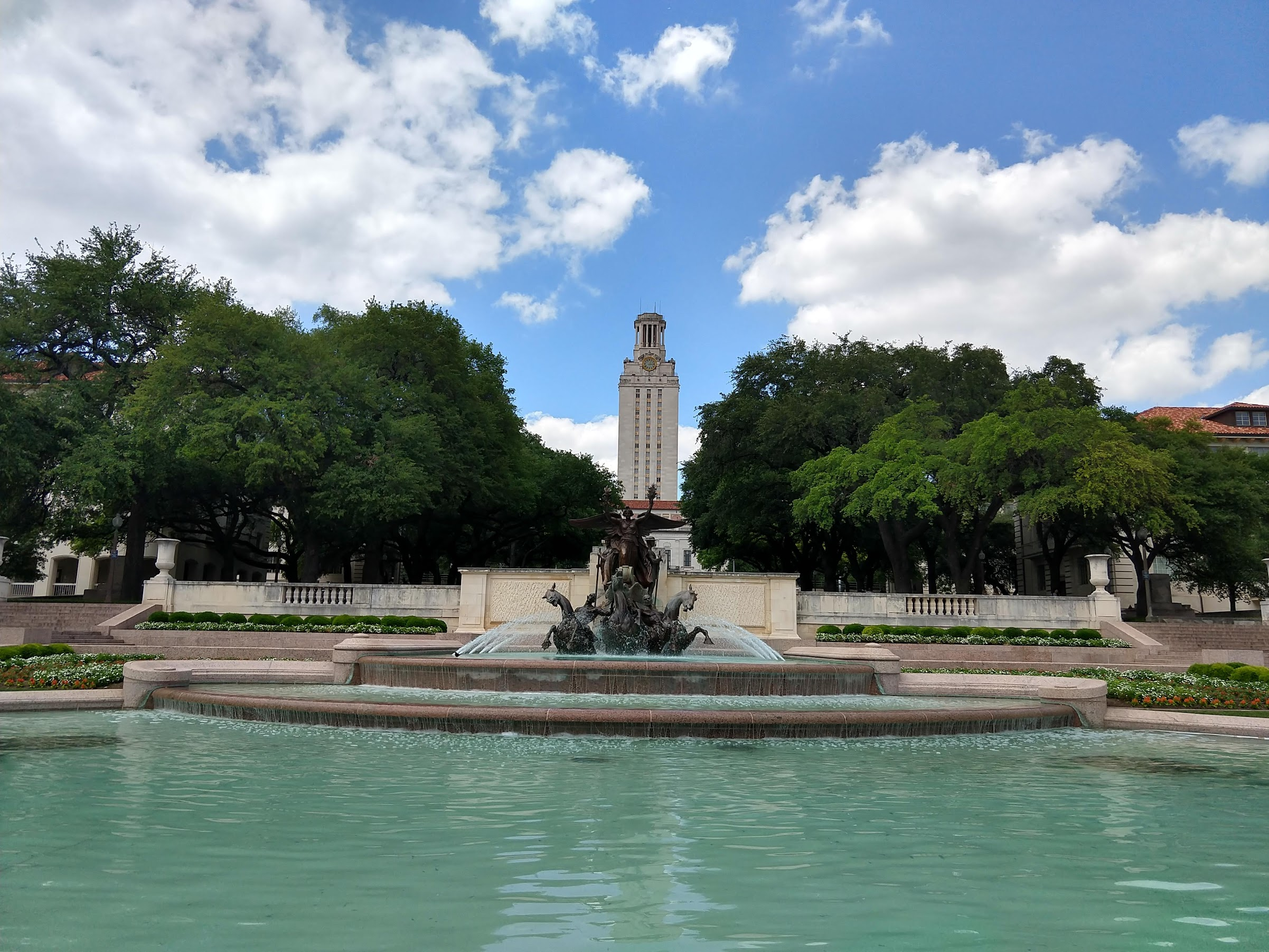
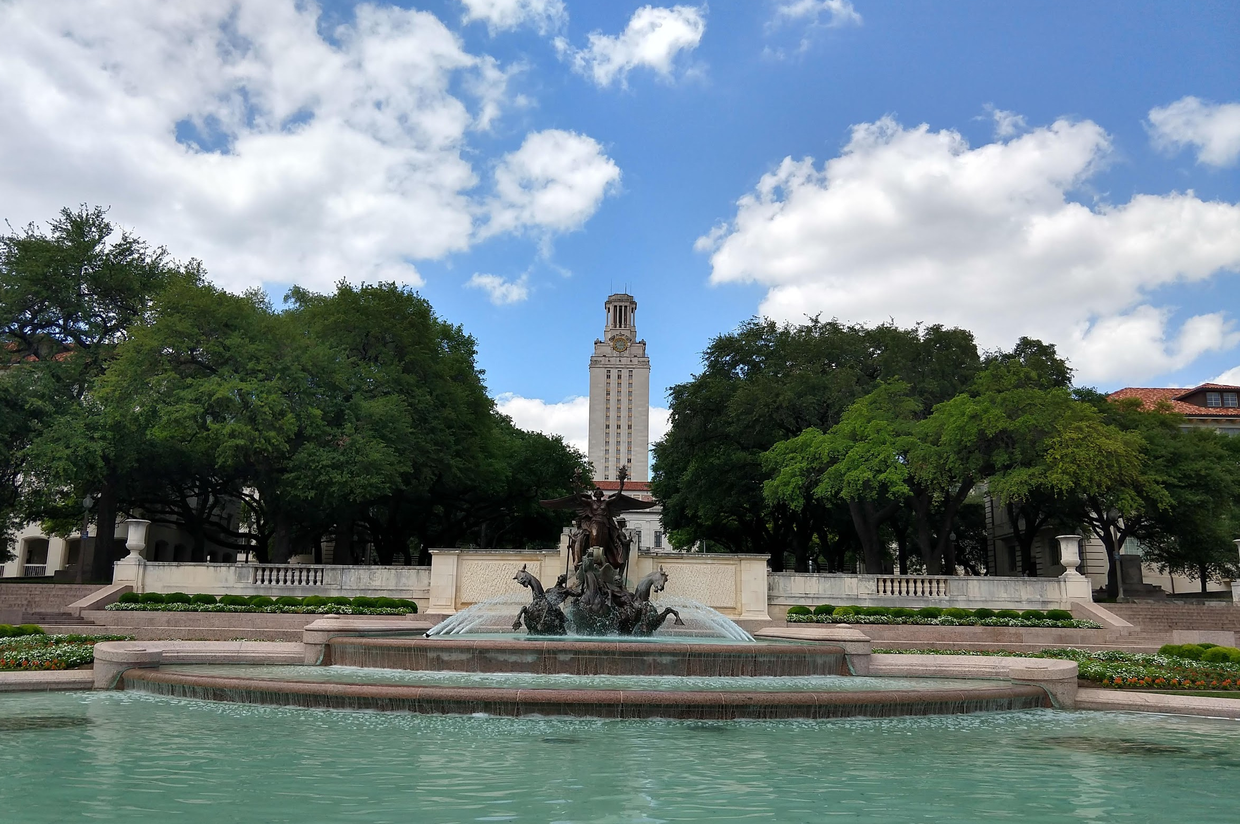
:pencil: Edit Thank you slide

diff --git a/index.html b/index.html
@@ -260,7 +260,8 @@
               </section>
 
               <!-- UT -->
-              <section data-background="images/ut.jpg" data-background-size="80%">
+              <section data-background="images/ut.jpg" data-background-size="100%">
+                <h2><br/>Thank you! <br/> and <br/> Hook 'em!</h2>
               </section>
             <!-- Special thanks to Chitra atthai! -->
          </div>
